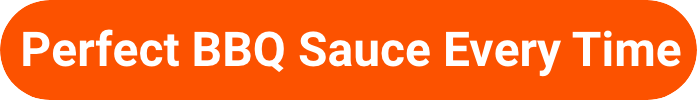
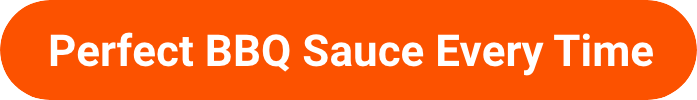
Make text smalle on sauce button

Changed region(s): [[0.0301, 0.3, 0.9943, 0.78]]

diff --git a/assets/style.css b/assets/style.css
@@ -11,7 +11,6 @@ body {
 
 h1, h2, p {
     font-family: lato, sans-serif;
-    text-decoration: none;
     color: black;
 }
 
@@ -65,12 +64,13 @@ div.container-2 {
     display:flex;
     padding: 5px;
     justify-content: center;
-    justify-content: space-between;
-    
+    justify-content: space-evenly;
     flex-wrap: wrap;
 }
 div.box-3 {
     display:inline-block;
+    align-items: center;
+    padding: auto;
 }
 section.box-3 {
     display:flex;
@@ -78,17 +78,40 @@ section.box-3 {
 
 div.container-3 {
     display:flex;
+    padding: 5px;
     justify-content: center;
     justify-content: space-evenly;
     flex-wrap: wrap;
-    background-color:paleturquoise;
 }
-
-
+div.box-4 {
+    display:inline-block;
+    align-items: center;
+    padding: auto;
+}
+div#instant-image.box-4 {
+    align-self: center;
+    flex: -5;
+}
+img.circle {
+    display: inline-block;
+    border-radius: 50%;
+    align-self: center;
+    border: 4px solid #FC5200 ;
+    position: relative;
+    right: -40%;
+}	
+div.container-4 {
+    display:flex;
+    padding: 5px;
+    justify-content: center;
+    justify-content: space-evenly;
+    flex-wrap: wrap;
+}
 
 /* container-2 text and logo black background*/
 .buttons {
-    width: 28%;
+    width: 23%;
+    padding-left: 55px;
     z-index: 5;
 }
 
